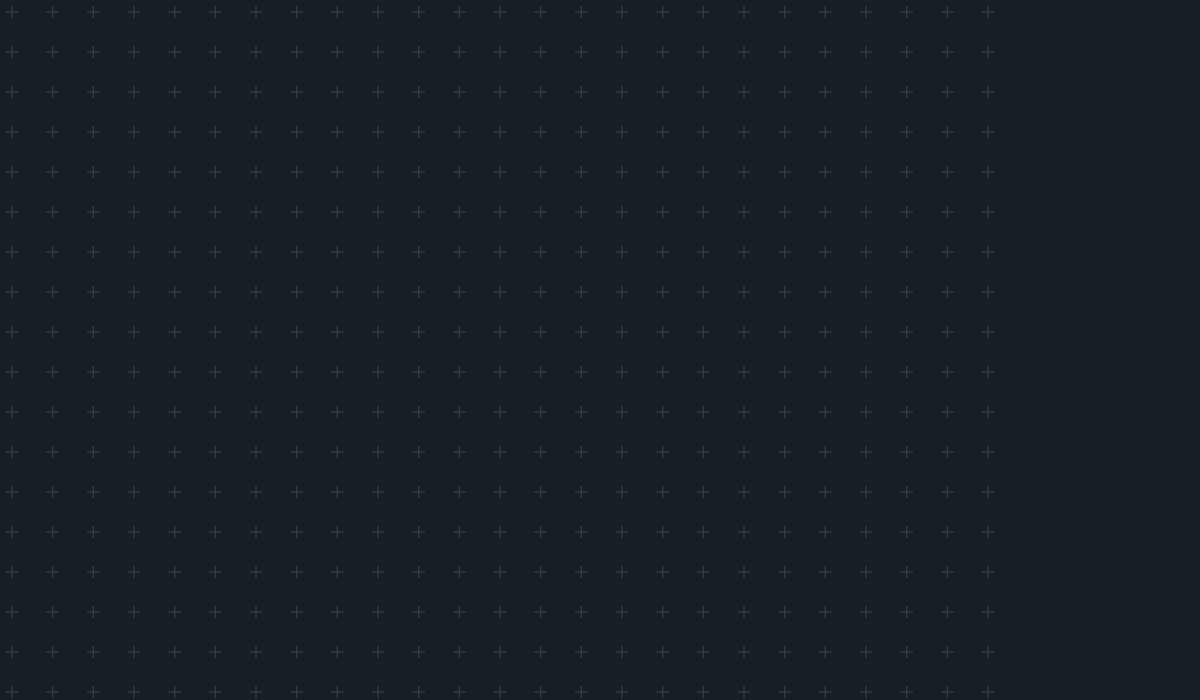
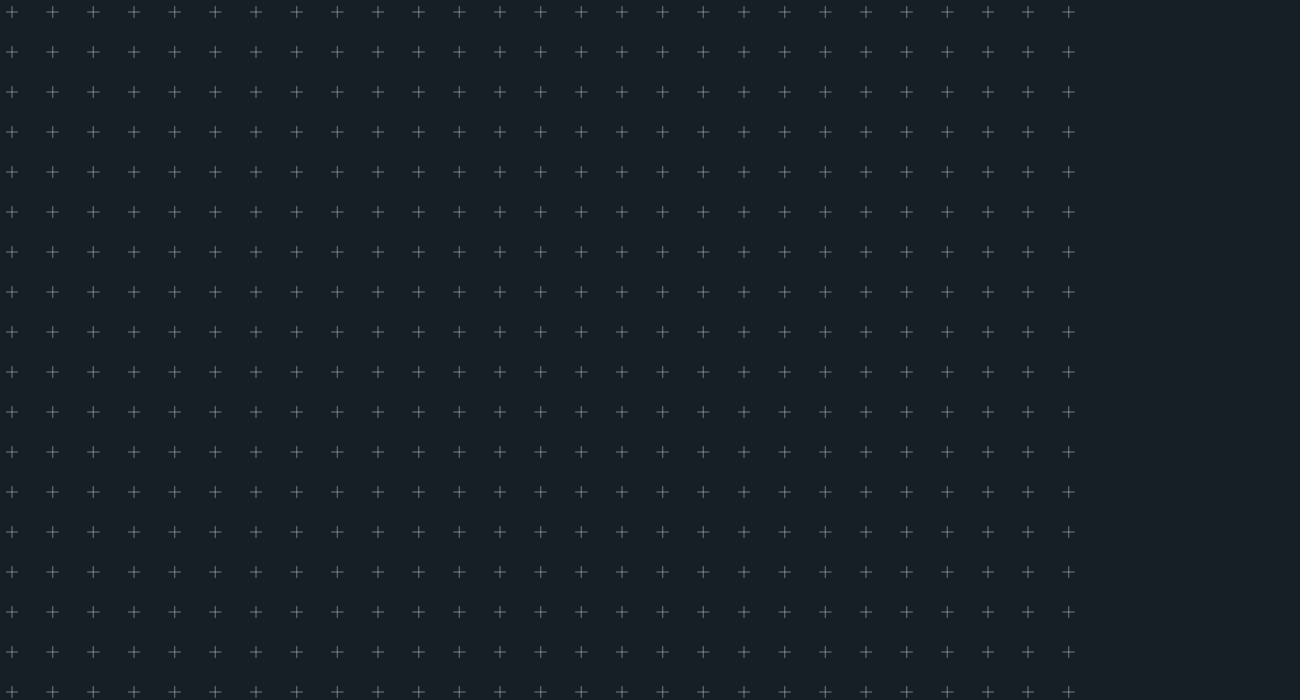
JJPanel作成

diff --git a/views/PlayPanel.java b/views/PlayPanel.java
@@ -9,35 +9,22 @@ import javax.imageio.*;
 import models.*;
 import static original.Constants.*;
 
-public class PlayPanel extends JPanel {
+public class PlayPanel extends JJPanel {
 
     public PlayPanel(Player player1, Player player2) {
-        setLayout(null);
+        super("PlayPanel");
 
         PlayerArea playerArea2 = new PlayerArea(player2);
-        addAndSetBounds(playerArea2, 0, 0, 1000, 300);
+        addAndSetBounds(playerArea2, 0, 0, 1100, 300);
 
         PlayerArea playerArea1 = new PlayerArea(player1);
-        addAndSetBounds(playerArea1, 0, 400, 1000, 300);
+        addAndSetBounds(playerArea1, 0, 400, 1100, 300);
 
-        ResultArea resultArea = new ResultArea(player2, player1);
-        addAndSetBounds(resultArea, 0, 300, 1000, 100);
+        ResultArea resultArea = new ResultArea(player1, player2);
+        addAndSetBounds(resultArea, 0, 300, 1100, 100);
 
-        ControlArea controlArea = new ControlArea(player2, player1);
-        addAndSetBounds(controlArea, 1000, 0, 200, 700);
-    }
-
-    /**
-     * JPanelにComponentを絶対位置指定して追加する
-     * @param component 追加するComponent
-     * @param x Componentのx座標
-     * @param y Componentのy座標
-     * @param width Componentの幅
-     * @param height Componentの高さ
-     */
-    private void addAndSetBounds(Component component, int x, int y, int width, int height) {
-        component.setBounds(x, y, width, height);
-        add(component);
+        ControlArea controlArea = new ControlArea(player1, player2);
+        addAndSetBounds(controlArea, 1100, 0, 200, 700);
     }
 
     /**

diff --git a/views/Deck.java b/views/Deck.java
@@ -7,17 +7,15 @@ import javax.swing.*;
 import models.*;
 import static original.Constants.*;
 
-public class Deck extends JPanel {
+public class Deck extends JJPanel {
 
     private Player player;
     private Card cards[] = new Card[HANDNUM];
 
     Deck(Player player) {
-        this.player = player;
+        super("Deck");
 
-        setName("Deck");
-        setLayout(new BoxLayout(this, BoxLayout.X_AXIS));
-        setOpaque(false);
+        this.player = player;
 
         // closeしないCardをランダムに決める
         int openCardIndex = new Random().nextInt(HANDNUM);
@@ -25,7 +23,7 @@ public class Deck extends JPanel {
 
         for(int i=0; i<playerHands.length; i++) {
             this.cards[i] = new Card(playerHands[i]);
-            add(this.cards[i]);
+            addAndSetBounds(this.cards[i], i*(CARD_WIDTH+10), 54, CARD_WIDTH, CARD_HEIGHT);
 
             // ComputerのCardのうちランダム1つを除いてcloseする
             if((player instanceof Computer) && i != openCardIndex) {

diff --git a/views/ResultArea.java b/views/ResultArea.java
@@ -5,7 +5,7 @@ import javax.swing.*;
 import models.*;
 import static original.Constants.*;
 
-public class ResultArea extends JPanel {
+public class ResultArea extends JJPanel {
 
     private Player player1, player2;
     private Judge judge;
@@ -15,20 +15,17 @@ public class ResultArea extends JPanel {
     private ResultLabel[] labels = new ResultLabel[HANDNUM];
 
     ResultArea(Player player1, Player player2) {
+        super("ResultArea");
+
         this.player1 = player1;
         this.player2 = player2;
         this.judge = new Judge();
 
-        setName("ResultArea");
-        setSize(1200, 300);
-        setLayout(new BoxLayout(this, BoxLayout.X_AXIS));
-        setOpaque(false);
-
-        add(this.label);
+        addAndSetBounds(this.label, 0, 0, 200, 100);
 
         for(int i=0; i<HANDNUM; i++) {
             this.labels[i] = new ResultLabel();
-            add(this.labels[i]);
+            addAndSetBounds(this.labels[i], i*(CARD_WIDTH+10)+200, 0, CARD_WIDTH, 100);
         }
     }
 

diff --git a/views/JJPanel.java b/views/JJPanel.java
@@ -1,0 +1,30 @@
+package views;
+
+import java.awt.*;
+import javax.swing.*;
+import models.*;
+import static original.Constants.*;
+
+class JJPanel extends JPanel {
+
+    JJPanel(String name) {
+        super();
+        setName(name);
+        setLayout(null);
+        setOpaque(false);
+    }
+
+    /**
+     * Componentを絶対位置指定して追加する
+     * @param component 追加するComponent
+     * @param x Componentのx座標
+     * @param y Componentのy座標
+     * @param width Componentの幅
+     * @param height Componentの高さ
+     */
+    public void addAndSetBounds(Component component, int x, int y, int width, int height) {
+        component.setBounds(x, y, width, height);
+        add(component);
+    }
+}
+

diff --git a/views/ControlArea.java b/views/ControlArea.java
@@ -4,17 +4,15 @@ import javax.swing.*;
 import models.*;
 import static original.Constants.*;
 
-public class ControlArea extends JPanel {
+public class ControlArea extends JJPanel {
 
     ControlArea(Player player1, Player player2) {
-        setSize(200, 700);
-        setLayout(new BoxLayout(this, BoxLayout.Y_AXIS));
-        setOpaque(false);
+        super("ControlArea");
 
         HelpButton helpButton = new HelpButton();
-        StartButton startButton = new StartButton(player1, player2);
+        addAndSetBounds(helpButton, 25, 470, 150, 80);
 
-        add(helpButton);
-        add(startButton);
+        StartButton startButton = new StartButton(player1, player2);
+        addAndSetBounds(startButton, 25, 570, 150, 80);
     }
 }

diff --git a/views/PlayerArea.java b/views/PlayerArea.java
@@ -1,19 +1,17 @@
 package views;
 
-import java.awt.*;
 import javax.swing.*;
 import models.*;
 import static original.Constants.*;
 
-public class PlayerArea extends JPanel {
+public class PlayerArea extends JJPanel {
 
     PlayerArea(Player player) {
-        setName("PlayerArea");
-        setSize(1200, 300);
-        setLayout(new BoxLayout(this, BoxLayout.X_AXIS));
-        setOpaque(false);
+        super("PlayerArea");
 
-        add(new PlayerInfo(player));
-        add(new Deck(player));
+        PlayerInfo playerInfo = new PlayerInfo(player);
+        Deck deck = new Deck(player);
+        addAndSetBounds(playerInfo, 0, 0, 200, 300);
+        addAndSetBounds(deck, 200, 0, 900, 300);
     }
 }

diff --git a/views/ResultLabel.java b/views/ResultLabel.java
@@ -1,5 +1,6 @@
 package views;
 
+import java.awt.*;
 import javax.swing.*;
 import models.*;
 import static original.Constants.*;
@@ -8,13 +9,13 @@ public class ResultLabel extends JLabel {
 
     public ResultLabel(Result result) {
         updateResult(result);
-        setLayout(new BoxLayout(this, BoxLayout.X_AXIS));
         setOpaque(false);
+        setForeground(Color.WHITE);
     }
 
     public ResultLabel() {
-        setLayout(new BoxLayout(this, BoxLayout.X_AXIS));
         setOpaque(false);
+        setForeground(Color.WHITE);
     }
 
     /**

diff --git a/views/PlayerInfo.java b/views/PlayerInfo.java
@@ -6,11 +6,11 @@ import javax.swing.*;
 import models.*;
 import static original.Constants.*;
 
-public class PlayerInfo extends JPanel {
+public class PlayerInfo extends JJPanel {
 
     PlayerInfo(Player player) {
+        super("PlayerInfo");
         setLayout(new BoxLayout(this, BoxLayout.Y_AXIS));
-        setOpaque(false);
 
         JLabel name = new JLabel(player.getName());
         JLabel points = new JLabel(player.getPoints() + "pt");

diff --git a/views/HelpButton.java b/views/HelpButton.java
@@ -13,9 +13,6 @@ public class HelpButton extends JButton {
     public class helpListener implements ActionListener {
         public void actionPerformed(ActionEvent e) {
             // TODO: 遊び方を説明したウィンドウ表示
-            // view/Asobikata.javaをつくる
-            // class Asobikata extends JFrame
-            new Asobikata();
         }
     }
 }

diff --git a/original/Constants.java b/original/Constants.java
@@ -7,6 +7,9 @@ public class Constants {
 
     public static final String DBDIR = "./db/";
 
+    public static final int CARD_WIDTH = 158;
+    public static final int CARD_HEIGHT = 192;
+
     public static final int HANDNUM = 5;
 
     public static enum Hand {

diff --git a/views/Main.java b/views/Main.java
@@ -23,7 +23,7 @@ public class Main extends JFrame {
         add(panel);
 
         setDefaultCloseOperation(JFrame.EXIT_ON_CLOSE);
-        setSize(1200, 700);
+        setSize(1300, 700);
         setVisible(true);
     }
 }
